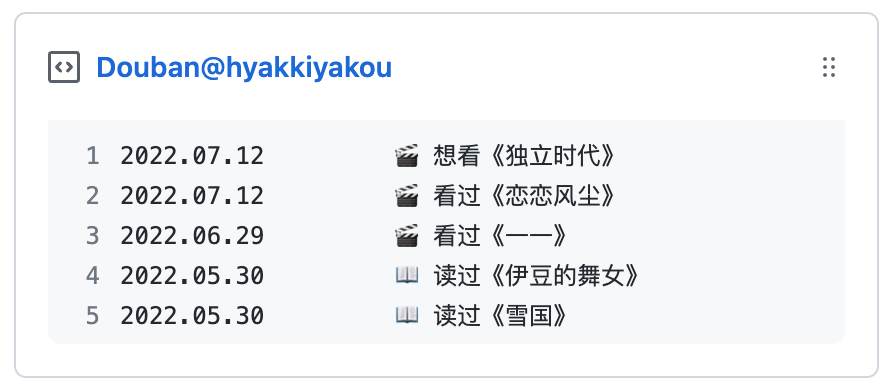
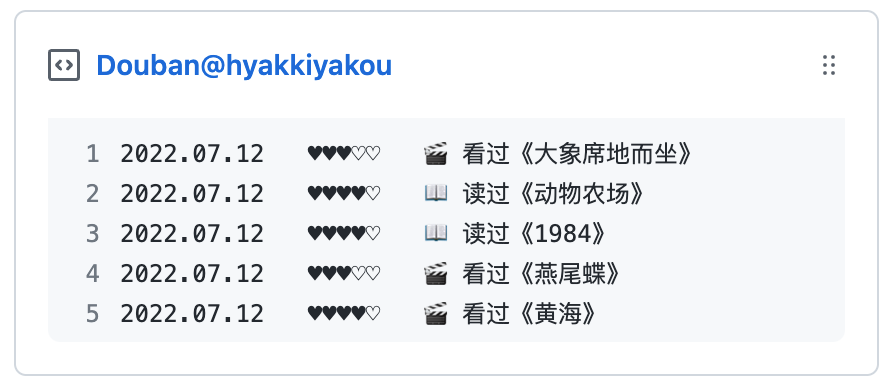
feat: gist styles

diff --git a/pkg/douban/rss.go b/pkg/douban/rss.go
@@ -16,9 +16,12 @@ type rssDouBan struct {
 type rssDouBanItem struct {
 	Title   string
 	PubDate string
+	Stars   string
 }
 
-const CSTLayout = "2006.01.02"
+const (
+	CSTLayout = "2006.01.02"
+)
 
 func getRSSDouBan(dbUserID string) (*rssDouBan, error) {
 	gist := &rssDouBan{}
@@ -31,15 +34,12 @@ func getRSSDouBan(dbUserID string) (*rssDouBan, error) {
 
 	gist.Title = formatRSSTitle(feed.Title)
 
-	for index, item := range feed.Items {
-		if index >= MaxLines {
-			break
-		}
+	for _, item := range feed.Items {
 		gistItem := &rssDouBanItem{
 			Title:   formatRSSItemTitle(item.Title),
 			PubDate: formatRSSItemDate(item.PublishedParsed),
+			Stars:   formatRSSItemStars(item.Description),
 		}
-
 		gist.Items = append(gist.Items, gistItem)
 	}
 
@@ -82,4 +82,28 @@ func formatRSSItemTitle(s string) string {
 
 func formatRSSItemDate(t *time.Time) string {
 	return t.Add(time.Hour * 8).Format(CSTLayout)
+}
+
+func formatRSSItemStars(s string) string {
+	str := ""
+	y := "♥"
+	n := "♡"
+	x := "⚇"
+
+	switch {
+	case strings.Contains(s, "很差"):
+		str = strings.Repeat(y, 1) + strings.Repeat(n, 4)
+	case strings.Contains(s, "较差"):
+		str = strings.Repeat(y, 2) + strings.Repeat(n, 3)
+	case strings.Contains(s, "还行"):
+		str = strings.Repeat(y, 3) + strings.Repeat(n, 2)
+	case strings.Contains(s, "推荐"):
+		str = strings.Repeat(y, 4) + strings.Repeat(n, 1)
+	case strings.Contains(s, "力荐"):
+		str = strings.Repeat(y, 5) + strings.Repeat(n, 0)
+	default:
+		str = strings.Repeat(x, 5)
+	}
+
+	return str
 }

diff --git a/pkg/douban/gist.go b/pkg/douban/gist.go
@@ -10,7 +10,6 @@ import (
 )
 
 const (
-	MaxLines     = 5
 	MaxLineWidth = 40
 )
 
@@ -82,29 +81,15 @@ func (g *gist) getGitHubGistFile(ghGist *github.Gist) github.GistFile {
 
 func (g *gist) formatRSSDouBanToGitHubGistContent() string {
 	content := ""
-	spacesLen := 6
-
-	max := g.getRSSDouBanItemsTitleMaxWidth()
-	if max < MaxLineWidth {
-		spacesLen = MaxLineWidth - max
-	}
 
 	for _, item := range g.rssDouBan.Items {
-		spaces := strings.Repeat(" ", spacesLen)
-		line := fmt.Sprintf("%s%s%s\n", item.PubDate, spaces, item.Title)
+		lineWidth := runewidth.StringWidth(item.Stars + item.Title)
+		if lineWidth > MaxLineWidth {
+			continue
+		}
+		line := fmt.Sprintf("%s   %s   %s\n", item.PubDate, item.Stars, item.Title)
 		content += line
 	}
 
 	return content
-}
-
-func (g *gist) getRSSDouBanItemsTitleMaxWidth() int {
-	max := 0
-	for _, item := range g.rssDouBan.Items {
-		if max < runewidth.StringWidth(item.Title) {
-			max = runewidth.StringWidth(item.Title)
-		}
-	}
-
-	return max
 }

diff --git a/README.md b/README.md
@@ -1,5 +1,5 @@
 <p align = "center">
-  <img width="50%" src="./screenshot.png"  alt="douban-box-go"/>
+  <img width="400" src="./screenshot.png"  alt="douban-box-go"/>
 </p>
 <h2 align = "center">Douban Box Go</h2>
 <p align = "center">同步豆瓣的 RSS 订阅到 Gist </p>
